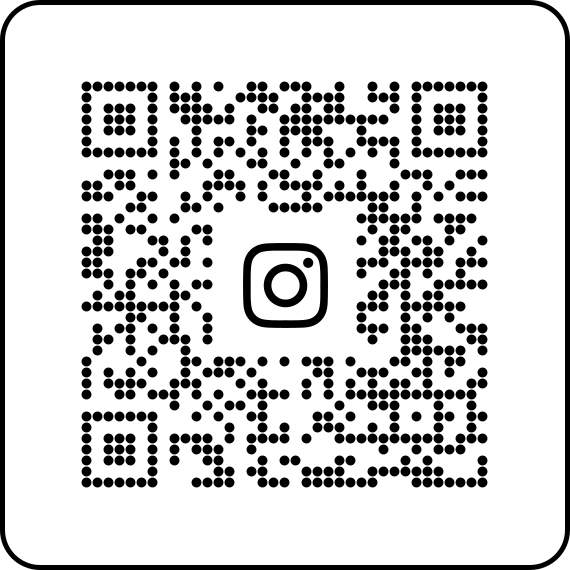
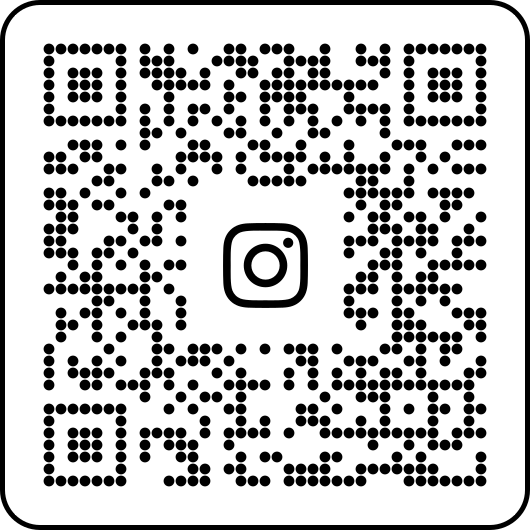
up

diff --git a/generate-qr-codes.js b/generate-qr-codes.js
@@ -19,9 +19,11 @@ const LOGO_SIZE_PERCENTAGE = 0.17; // Logo size as a percentage of QR code size
 const USE_LOGO = true; // Set to false to disable the logo in the center of QR codes
 const QR_CODES_JSON = path.join(QR_CODES_DIR, 'qr-codes.json');
 const BORDER_WIDTH = 5; // Width of the border in pixels
-const BORDER_PADDING = 30; // Padding between QR code and border in pixels
+const BORDER_PADDING = 10; // Padding between QR code and border in pixels
 const BORDER_RADIUS = 40; // Radius of the rounded corners in pixels
 const BORDER_COLOR = '#000000'; // Border color (black)
+const QR_MARGIN = 2; // Margin size for QR code (smaller value = less white space)
+const QR_ERROR_CORRECTION = 'H'; // Error correction level (L, M, Q, H)
 
 // Load QR code data from JSON file if it exists
 let qrCodesData = [];
@@ -71,8 +73,8 @@ async function generateArtisticQRCode(url, outputPath, logoSvg) {
       const ErrorCorrectLevel = require('qrcode/lib/core/error-correction-level');
       
       try {
-        // Create QR code with high error correction
-        const qrcode = qr.create(url, { errorCorrectionLevel: ErrorCorrectLevel.H });
+        // Create QR code with configured error correction
+        const qrcode = qr.create(url, { errorCorrectionLevel: ErrorCorrectLevel[QR_ERROR_CORRECTION] });
         resolve(qrcode.modules);
       } catch (error) {
         reject(error);
@@ -81,7 +83,7 @@ async function generateArtisticQRCode(url, outputPath, logoSvg) {
     
     // Get QR code size (number of modules)
     const size = qrData.size;
-    const cellSize = Math.floor(QR_SIZE / (size + 8)); // Add margin
+    const cellSize = Math.floor(QR_SIZE / (size + QR_MARGIN)); // Use margin from configuration
     const margin = Math.floor((QR_SIZE - (size * cellSize)) / 2);
     
     // Calculate the center region to leave empty for the logo (if enabled)
